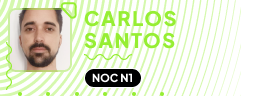
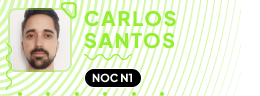
19

Changed region(s): [[0.0615, 0.0625, 0.2462, 0.75]]

diff --git a/eduardo-lourenco.html b/eduardo-lourenco.html
@@ -14,11 +14,12 @@
 			<table cellpadding="0" cellspacing="0">
 				<tr>
 					<td>
-						<img src="https://abrcoutinho.github.io/groove-signatures/img/rodrigo-cassiano.png" style="display: inline-block; width: 260px; height: 96px; vertical-align: middle;" />
+						<img src="https://abrcoutinho.github.io/groove-signatures/img/eduardo-lourenco.png" style="display: inline-block; width: 260px; height: 96px; vertical-align: middle;" />
 						
 						<a 
-							title="Indisponível" 
-							style="display: inline-block; vertical-align: middle; margin: 14px 28px; cursor: pointer; color: #000; opacity: 0.4;"
+							href="https://api.whatsapp.com/send?phone=5513991538145&text=Olá,%20gostaria%20de%20mais%20informações%20sobre%20a%20GrooveTech" 
+							target="_blank" title="WhatsApp" 
+							style="display: inline-block; vertical-align: middle; margin: 14px 28px; cursor: pointer; color: #000;"
 							>
 							<img src="https://abrcoutinho.github.io/groove-signatures/img/whatsapp.png" style="width: 40px; height: 40px; display: inline-block; vertical-align: middle;" />
 							<span style="height: 40px; display: inline-block; border-radius: 40px; background-color: #96EE33; vertical-align: middle; line-height: 40px; font-size: 18px; padding: 0 20px; font-weight: 600;">Fale agora</span>

diff --git a/douglas-lopes.html b/douglas-lopes.html
@@ -14,11 +14,12 @@
 			<table cellpadding="0" cellspacing="0">
 				<tr>
 					<td>
-						<img src="https://abrcoutinho.github.io/groove-signatures/img/rodrigo-cassiano.png" style="display: inline-block; width: 260px; height: 96px; vertical-align: middle;" />
+						<img src="https://abrcoutinho.github.io/groove-signatures/img/douglas-lopes.png" style="display: inline-block; width: 260px; height: 96px; vertical-align: middle;" />
 						
 						<a 
-							title="Indisponível" 
-							style="display: inline-block; vertical-align: middle; margin: 14px 28px; cursor: pointer; color: #000; opacity: 0.4;"
+							href="https://api.whatsapp.com/send?phone=5548988063255&text=Olá,%20gostaria%20de%20mais%20informações%20sobre%20a%20GrooveTech" 
+							target="_blank" title="WhatsApp" 
+							style="display: inline-block; vertical-align: middle; margin: 14px 28px; cursor: pointer; color: #000;"
 							>
 							<img src="https://abrcoutinho.github.io/groove-signatures/img/whatsapp.png" style="width: 40px; height: 40px; display: inline-block; vertical-align: middle;" />
 							<span style="height: 40px; display: inline-block; border-radius: 40px; background-color: #96EE33; vertical-align: middle; line-height: 40px; font-size: 18px; padding: 0 20px; font-weight: 600;">Fale agora</span>

diff --git a/raphael-braga.html b/raphael-braga.html
@@ -14,11 +14,12 @@
 			<table cellpadding="0" cellspacing="0">
 				<tr>
 					<td>
-						<img src="https://abrcoutinho.github.io/groove-signatures/img/rodrigo-cassiano.png" style="display: inline-block; width: 260px; height: 96px; vertical-align: middle;" />
+						<img src="https://abrcoutinho.github.io/groove-signatures/img/raphael-braga.png" style="display: inline-block; width: 260px; height: 96px; vertical-align: middle;" />
 						
 						<a 
-							title="Indisponível" 
-							style="display: inline-block; vertical-align: middle; margin: 14px 28px; cursor: pointer; color: #000; opacity: 0.4;"
+							href="https://api.whatsapp.com/send?phone=5521982460837&text=Olá,%20gostaria%20de%20mais%20informações%20sobre%20a%20GrooveTech" 
+							target="_blank" title="WhatsApp" 
+							style="display: inline-block; vertical-align: middle; margin: 14px 28px; cursor: pointer; color: #000;"
 							>
 							<img src="https://abrcoutinho.github.io/groove-signatures/img/whatsapp.png" style="width: 40px; height: 40px; display: inline-block; vertical-align: middle;" />
 							<span style="height: 40px; display: inline-block; border-radius: 40px; background-color: #96EE33; vertical-align: middle; line-height: 40px; font-size: 18px; padding: 0 20px; font-weight: 600;">Fale agora</span>

diff --git a/alan-tavares.html b/alan-tavares.html
@@ -14,11 +14,12 @@
 			<table cellpadding="0" cellspacing="0">
 				<tr>
 					<td>
-						<img src="https://abrcoutinho.github.io/groove-signatures/img/rodrigo-cassiano.png" style="display: inline-block; width: 260px; height: 96px; vertical-align: middle;" />
+						<img src="https://abrcoutinho.github.io/groove-signatures/img/alan-tavares.png" style="display: inline-block; width: 260px; height: 96px; vertical-align: middle;" />
 						
 						<a 
-							title="Indisponível" 
-							style="display: inline-block; vertical-align: middle; margin: 14px 28px; cursor: pointer; color: #000; opacity: 0.4;"
+							href="https://api.whatsapp.com/send?phone=5511981038283&text=Olá,%20gostaria%20de%20mais%20informações%20sobre%20a%20GrooveTech" 
+							target="_blank" title="WhatsApp" 
+							style="display: inline-block; vertical-align: middle; margin: 14px 28px; cursor: pointer; color: #000;"
 							>
 							<img src="https://abrcoutinho.github.io/groove-signatures/img/whatsapp.png" style="width: 40px; height: 40px; display: inline-block; vertical-align: middle;" />
 							<span style="height: 40px; display: inline-block; border-radius: 40px; background-color: #96EE33; vertical-align: middle; line-height: 40px; font-size: 18px; padding: 0 20px; font-weight: 600;">Fale agora</span>

diff --git a/joao-miranda.html b/joao-miranda.html
@@ -14,11 +14,12 @@
 			<table cellpadding="0" cellspacing="0">
 				<tr>
 					<td>
-						<img src="https://abrcoutinho.github.io/groove-signatures/img/rodrigo-cassiano.png" style="display: inline-block; width: 260px; height: 96px; vertical-align: middle;" />
+						<img src="https://abrcoutinho.github.io/groove-signatures/img/joao-miranda.png" style="display: inline-block; width: 260px; height: 96px; vertical-align: middle;" />
 						
 						<a 
-							title="Indisponível" 
-							style="display: inline-block; vertical-align: middle; margin: 14px 28px; cursor: pointer; color: #000; opacity: 0.4;"
+							href="https://api.whatsapp.com/send?phone=5541988258778&text=Olá,%20gostaria%20de%20mais%20informações%20sobre%20a%20GrooveTech" 
+							target="_blank" title="WhatsApp" 
+							style="display: inline-block; vertical-align: middle; margin: 14px 28px; cursor: pointer; color: #000;"
 							>
 							<img src="https://abrcoutinho.github.io/groove-signatures/img/whatsapp.png" style="width: 40px; height: 40px; display: inline-block; vertical-align: middle;" />
 							<span style="height: 40px; display: inline-block; border-radius: 40px; background-color: #96EE33; vertical-align: middle; line-height: 40px; font-size: 18px; padding: 0 20px; font-weight: 600;">Fale agora</span>

diff --git a/thiago-bovo.html b/thiago-bovo.html
@@ -14,11 +14,12 @@
 			<table cellpadding="0" cellspacing="0">
 				<tr>
 					<td>
-						<img src="https://abrcoutinho.github.io/groove-signatures/img/rodrigo-cassiano.png" style="display: inline-block; width: 260px; height: 96px; vertical-align: middle;" />
+						<img src="https://abrcoutinho.github.io/groove-signatures/img/thiago-bovo.png" style="display: inline-block; width: 260px; height: 96px; vertical-align: middle;" />
 						
 						<a 
-							title="Indisponível" 
-							style="display: inline-block; vertical-align: middle; margin: 14px 28px; cursor: pointer; color: #000; opacity: 0.4;"
+							href="https://api.whatsapp.com/send?phone=5511952764274&text=Olá,%20gostaria%20de%20mais%20informações%20sobre%20a%20GrooveTech" 
+							target="_blank" title="WhatsApp" 
+							style="display: inline-block; vertical-align: middle; margin: 14px 28px; cursor: pointer; color: #000;"
 							>
 							<img src="https://abrcoutinho.github.io/groove-signatures/img/whatsapp.png" style="width: 40px; height: 40px; display: inline-block; vertical-align: middle;" />
 							<span style="height: 40px; display: inline-block; border-radius: 40px; background-color: #96EE33; vertical-align: middle; line-height: 40px; font-size: 18px; padding: 0 20px; font-weight: 600;">Fale agora</span>

diff --git a/leia-rocha.html b/leia-rocha.html
@@ -14,11 +14,12 @@
 			<table cellpadding="0" cellspacing="0">
 				<tr>
 					<td>
-						<img src="https://abrcoutinho.github.io/groove-signatures/img/rodrigo-cassiano.png" style="display: inline-block; width: 260px; height: 96px; vertical-align: middle;" />
+						<img src="https://abrcoutinho.github.io/groove-signatures/img/leia-rocha.png" style="display: inline-block; width: 260px; height: 96px; vertical-align: middle;" />
 						
 						<a 
-							title="Indisponível" 
-							style="display: inline-block; vertical-align: middle; margin: 14px 28px; cursor: pointer; color: #000; opacity: 0.4;"
+							href="https://api.whatsapp.com/send?phone=5511911804732&text=Olá,%20gostaria%20de%20mais%20informações%20sobre%20a%20GrooveTech" 
+							target="_blank" title="WhatsApp" 
+							style="display: inline-block; vertical-align: middle; margin: 14px 28px; cursor: pointer; color: #000;"
 							>
 							<img src="https://abrcoutinho.github.io/groove-signatures/img/whatsapp.png" style="width: 40px; height: 40px; display: inline-block; vertical-align: middle;" />
 							<span style="height: 40px; display: inline-block; border-radius: 40px; background-color: #96EE33; vertical-align: middle; line-height: 40px; font-size: 18px; padding: 0 20px; font-weight: 600;">Fale agora</span>
